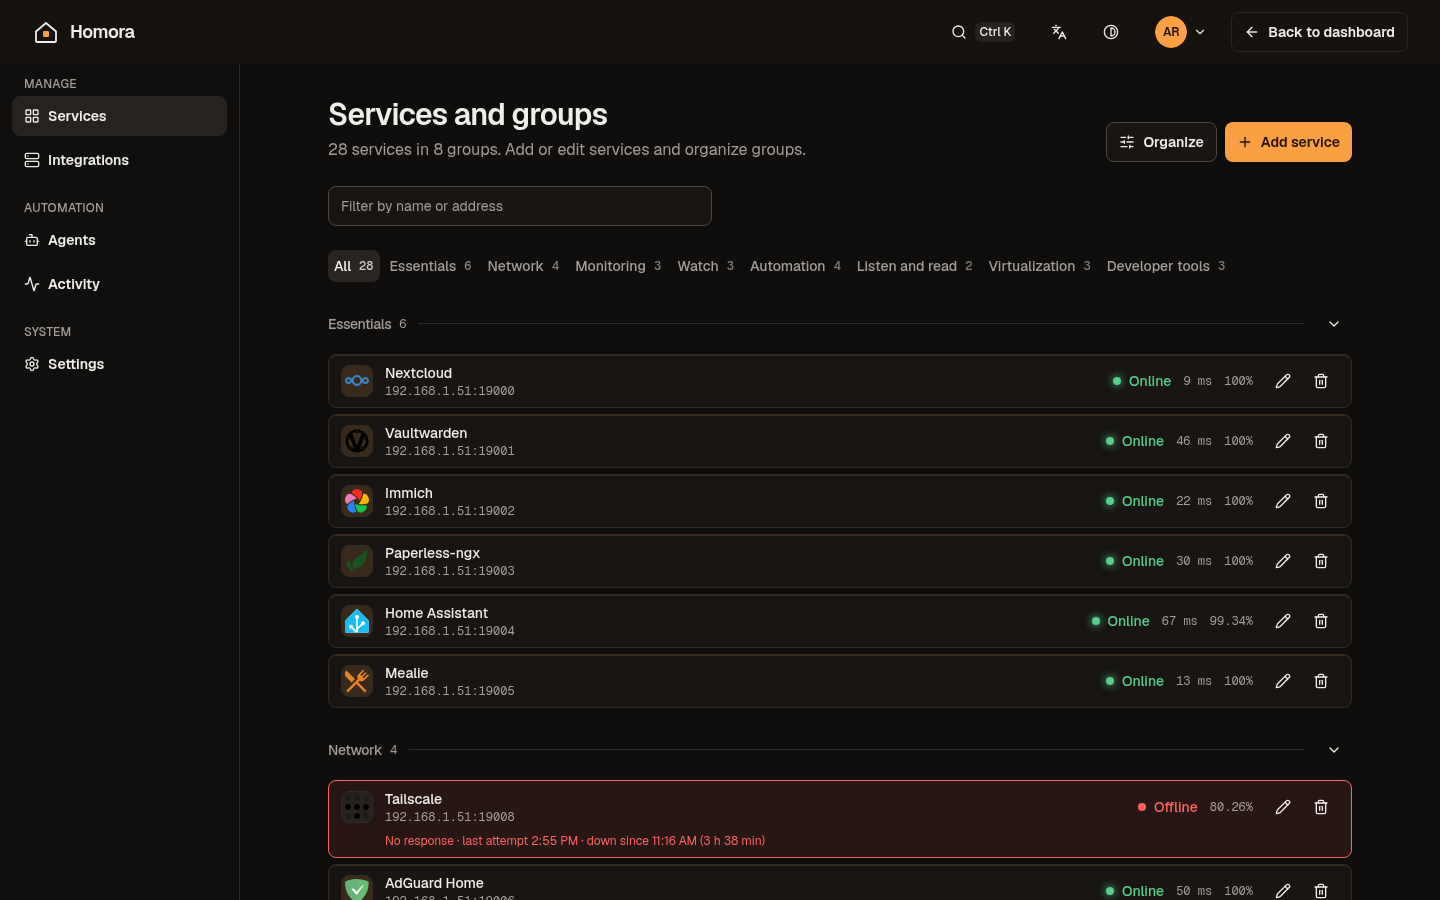
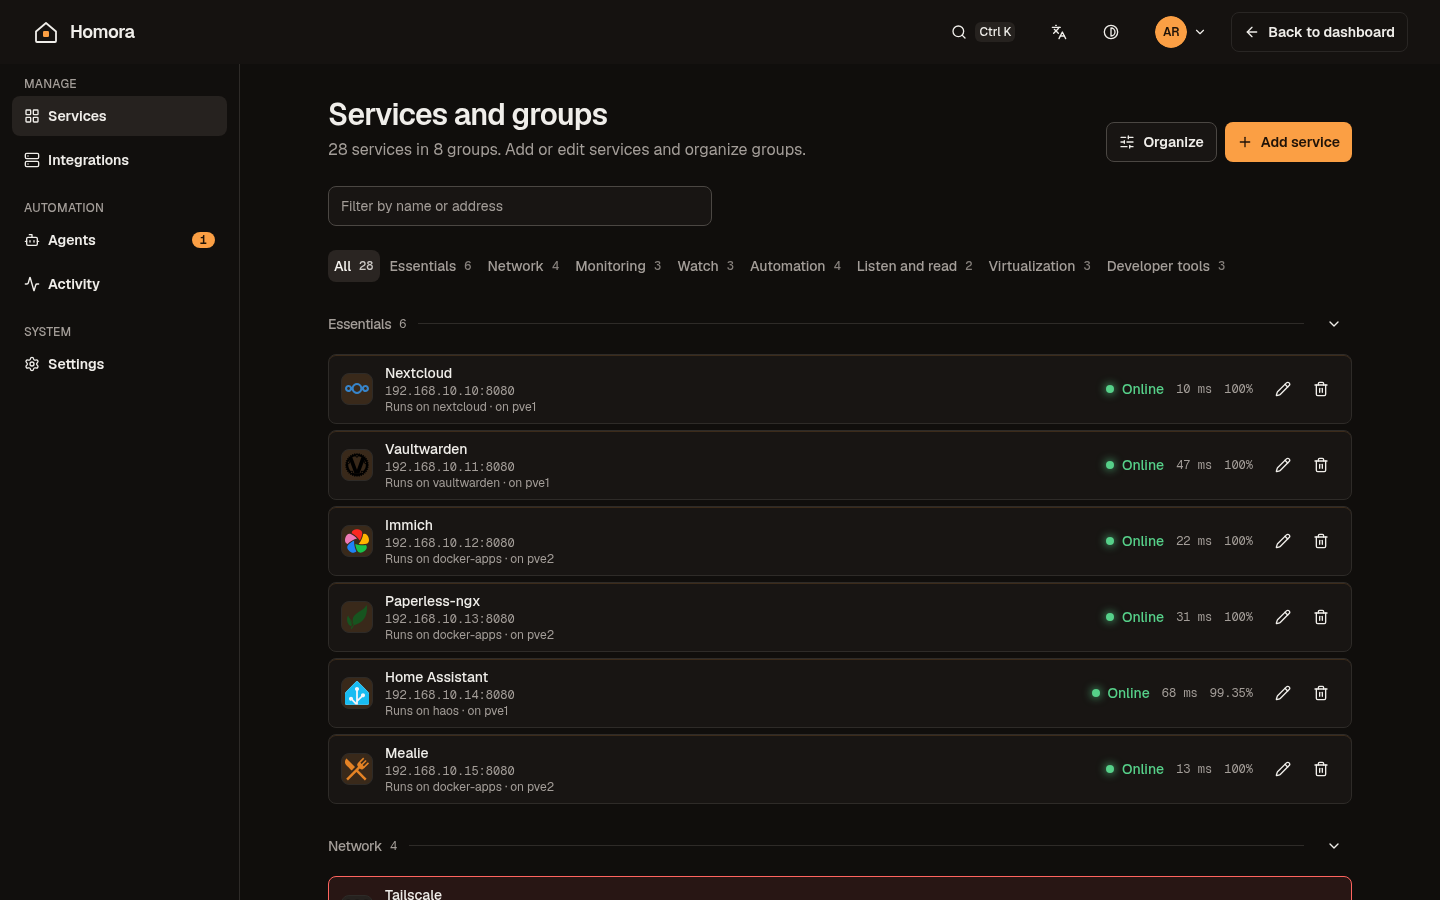
docs: add Host and Map screenshots and use example IP addresses
Retake all screenshots with 192.168.10.x example addresses and add the Host
view and service map, using a fictional Proxmox inventory.

diff --git a/docs/screenshots/README.md b/docs/screenshots/README.md
@@ -6,7 +6,9 @@ The images in this folder are used by the [README](../../README.md) and the [use
 
 Every screenshot comes from a **demo installation filled with synthetic data**: invented services on a private
 network, mock servers that answer with a chosen status code and latency, a mock Proxmox connection and a scripted
-agent proposal. The administrator "Alex Rivera", the status page title and the notification channel are fictional.
+agent proposal. Addresses shown are example addresses (`192.168.10.x`); the capture script rewrites the real test address in API
+responses before the page renders. The Proxmox nodes and guests on the Host view and map are a fictional inventory
+returned in place of the mock connection's. The administrator "Alex Rivera", the status page title and the notification channel are fictional.
 No real service, account or credential appears. Treat the numbers as an illustration, not a benchmark.
 
 Two parts of the history are generated for illustration, because a fresh installation has none: the 14 days of check
@@ -24,33 +26,35 @@ results and the 90-day hourly counts behind the uptime figures, heatmaps and inc
 
 ## Files
 
-| File                           | Screen                                       |
-| ------------------------------ | -------------------------------------------- |
-| `dashboard-dark.png`           | Dashboard, dark theme (hero image)           |
-| `dashboard-light.png`          | Dashboard, light theme                       |
-| `dashboard-cards.png`          | Dashboard with the Cards layout              |
-| `command-palette.png`          | Command palette filtering with `status:down` |
-| `service-detail.png`           | A service's uptime, latency and incidents    |
-| `service-form.png`             | Service form, Appearance tab                 |
-| `service-form-monitoring.png`  | Service form, Monitoring tab                 |
-| `service-form-connections.png` | Service form, Connections tab                |
-| `manage-services.png`          | Services and groups                          |
-| `organize-mode.png`            | Organize mode                                |
-| `integrations.png`             | Integrations page                            |
-| `agents.png`                   | Agents page with a pending proposal          |
-| `proposal-review.png`          | A proposal's diff with Approve and Reject    |
-| `proposal-review-mobile.png`   | The same review on a phone                   |
-| `activity.png`                 | Activity log                                 |
-| `account.png`                  | Account page                                 |
-| `login.png`                    | Sign-in page                                 |
-| `public-status.png`            | Public status page (anonymous view)          |
-| `settings-appearance.png`      | Settings → Appearance                        |
-| `settings-home.png`            | Settings → Home and pages                    |
-| `settings-topbar.png`          | Settings → Top bar and shortcuts             |
-| `settings-alerts.png`          | Settings → Alerts                            |
-| `settings-public.png`          | Settings → Public status                     |
-| `settings-backup.png`          | Settings → Export and import                 |
-| `mobile-dashboard.png`         | Dashboard on a phone                         |
+| File                           | Screen                                        |
+| ------------------------------ | --------------------------------------------- |
+| `dashboard-dark.png`           | Dashboard, dark theme (hero image)            |
+| `dashboard-light.png`          | Dashboard, light theme                        |
+| `dashboard-cards.png`          | Dashboard with the Cards layout               |
+| `command-palette.png`          | Command palette filtering with `status:down`  |
+| `service-detail.png`           | A service's uptime, latency and incidents     |
+| `service-form.png`             | Service form, Appearance tab                  |
+| `service-form-monitoring.png`  | Service form, Monitoring tab                  |
+| `service-form-connections.png` | Service form, Connections tab                 |
+| `manage-services.png`          | Services and groups                           |
+| `organize-mode.png`            | Organize mode                                 |
+| `host-view.png`                | Host view with a service that may be affected |
+| `host-map.png`                 | Service map of nodes, guests and services     |
+| `integrations.png`             | Integrations page                             |
+| `agents.png`                   | Agents page with a pending proposal           |
+| `proposal-review.png`          | A proposal's diff with Approve and Reject     |
+| `proposal-review-mobile.png`   | The same review on a phone                    |
+| `activity.png`                 | Activity log                                  |
+| `account.png`                  | Account page                                  |
+| `login.png`                    | Sign-in page                                  |
+| `public-status.png`            | Public status page (anonymous view)           |
+| `settings-appearance.png`      | Settings → Appearance                         |
+| `settings-home.png`            | Settings → Home and pages                     |
+| `settings-topbar.png`          | Settings → Top bar and shortcuts              |
+| `settings-alerts.png`          | Settings → Alerts                             |
+| `settings-public.png`          | Settings → Public status                      |
+| `settings-backup.png`          | Settings → Export and import                  |
+| `mobile-dashboard.png`         | Dashboard on a phone                          |
 
 ## How to refresh them
 

diff --git a/docs/evolution.md b/docs/evolution.md
@@ -1740,12 +1740,12 @@ manual responsive and keyboard verification in a browser remains pending.
   services and monitoring, notifications and status page, integrations and widgets, Docker discovery, agents and MCP,
   appearance, import/export/backup, accounts and security, deployment and use cases.
 - All screenshots were deleted and retaken from a demo installation with synthetic data (mock HTTP servers, a mock
-  Proxmox connection, a scripted agent proposal, generated history); the method and file list are in
+  Proxmox connection with a fictional node and guest inventory for the Host and Map views, a scripted agent proposal,
+  generated history, and example `192.168.10.x` addresses substituted in API responses); the method and file list are in
   [screenshots](screenshots/README.md). The agent walkthrough now uses the new proposal review images.
 - Validation: relative links and anchors in the changed Markdown were checked with a script; Prettier was applied;
   every screenshot was inspected visually. Statements about behavior were taken from the code, ADRs and message
-  catalogs, not from running every flow. Not verified: the Host and Map views (the mock Proxmox connection has no
-  guests, so they are described from ADR 0008 but not pictured), live-service behavior of the integrations, and the
+  catalogs, not from running every flow. Not verified: live-service behavior of the integrations, and the
   wording of the Portuguese README beyond a direct translation.
 - Known gap: some interface messages still say "see the README" for Docker discovery; the guide is now
   [docker-discovery.md](user-guide/docker-discovery.md).

diff --git a/README.pt-BR.md b/README.pt-BR.md
@@ -157,6 +157,16 @@ card ao primeiro alerta.
   </tr>
   <tr>
     <td width="50%">
+      <a href="docs/screenshots/host-view.png"><img src="docs/screenshots/host-view.png" alt="Visão Host agrupando serviços por convidado do Proxmox"></a>
+      <br><b>Visão Host.</b> Serviços agrupados pelo convidado em que rodam, com o impacto de dependências com falha.
+    </td>
+    <td width="50%">
+      <a href="docs/screenshots/host-map.png"><img src="docs/screenshots/host-map.png" alt="Mapa de nós, convidados e serviços"></a>
+      <br><b>Mapa de serviços.</b> Veja o que roda onde e o que um convidado parado leva junto.
+    </td>
+  </tr>
+  <tr>
+    <td width="50%">
       <a href="docs/screenshots/organize-mode.png"><img src="docs/screenshots/organize-mode.png" alt="Modo organizar com alças de arrastar e controles de mover"></a>
       <br><b>Modo organizar.</b> Arraste linhas, use as setas ou mova um serviço para outro grupo.
     </td>

diff --git a/README.md b/README.md
@@ -153,6 +153,16 @@ to your first alert.
   </tr>
   <tr>
     <td width="50%">
+      <a href="docs/screenshots/host-view.png"><img src="docs/screenshots/host-view.png" alt="Host view grouping services under Proxmox guests"></a>
+      <br><b>Host view.</b> Services grouped by the guest they run on, with impact from failing dependencies.
+    </td>
+    <td width="50%">
+      <a href="docs/screenshots/host-map.png"><img src="docs/screenshots/host-map.png" alt="Service map of nodes, guests and services"></a>
+      <br><b>Service map.</b> See what runs where, and what a stopped guest takes with it.
+    </td>
+  </tr>
+  <tr>
+    <td width="50%">
       <a href="docs/screenshots/organize-mode.png"><img src="docs/screenshots/organize-mode.png" alt="Organize mode with drag handles and move controls"></a>
       <br><b>Organize mode.</b> Drag rows, use the arrows, or move a service to another group.
     </td>

diff --git a/docs/user-guide/services-and-monitoring.md b/docs/user-guide/services-and-monitoring.md
@@ -164,6 +164,7 @@ The **Connections** tab models your infrastructure without touching it.
   tied to that guest. A name match alone never counts. You accept or dismiss each suggestion.
 - **Depends on:** record the services this one needs. These links are manual, and Homora refuses a link that would
   create a cycle.
+- **Host view and map:** see the [dashboard guide](dashboard.md#layouts-and-views) for pictures of both.
 - **Impact:** a service whose host or dependency is impaired is flagged as _may be affected_, always worded as manual
   and as "may", never presented as a measured fact. The **Host** and **Map** views arrange your services by host.
 

diff --git a/docs/user-guide/dashboard.md b/docs/user-guide/dashboard.md
@@ -50,6 +50,13 @@ Open **View** to choose how cards look. This is saved in your browser.
 
 ![Cards layout with descriptions and uptime bars](../screenshots/dashboard-cards.png)
 
+The **Host** view lists services under the node and guest they run on, and flags the ones that may be affected by a
+failing dependency. The **Map** shows the same relationships as boxes, and you can drag an unlinked service onto a guest.
+
+![Host view](../screenshots/host-view.png)
+
+![Service map](../screenshots/host-map.png)
+
 You can also change the layout, whether descriptions show, and the uptime period (24 h, 7 d or 30 d) in
 **Settings → Home and pages**.
 
